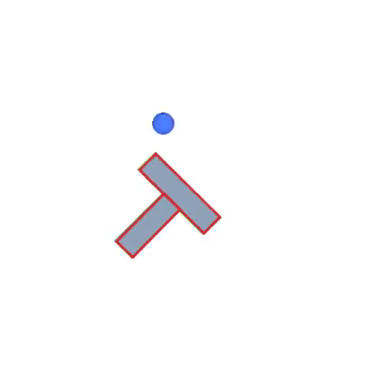
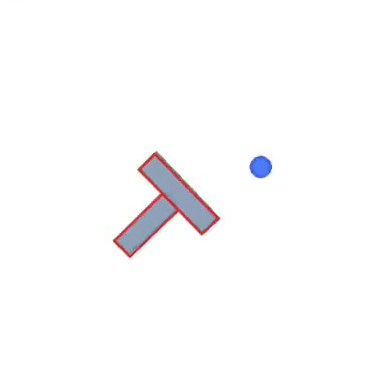
docs(presentation): merge the copying slide and re-record the T clip
Why:
The lead asked to keep "World model" on the overview slide, to remove
"Final test by shape group", to fold "Copying the teacher was not
enough" into "Why correction rounds work", and to replace the backup T
clip, which started almost solved, with a real push.

Note: some slides' step-by-step animations are still gone in the Beamer
deck; they will be restored later, content first.

Changes:
- "Approach at a glance": the box reads "World model" again.
- "Final test by shape group" removed (the deck has 42 numbered slides).
- "Why correction rounds work": a three-row strip above the DAgger
  diagram (teacher 76%, copy reading the exact state 31%, camera copy
  19%, 5 shapes) with "keeps at most 41% of the teacher's successes";
  the separate copying slide is gone.
- Backup clip: T from teacher seed 400120, window at control 39, which
  starts at 58% coverage and moves the letter 21 px; predicted within
  1.1 px after 8 and 1.8 px after 32 controls, 2.3 px at worst.
  make_videos.py worldmodel takes --record, --scene and --min-move.
- PowerPoint regions: the DAgger diagram area moved below the strip.

Validation:
- Deck compiles (57 pages); changed slides checked.
- PowerPoint: 57 slides, every word matches its Beamer page.

diff --git a/presentation/scripts/make_videos.py b/presentation/scripts/make_videos.py
@@ -218,13 +218,15 @@ def teacher(shapes):
     pickle.dump(lanes, open(CACHE / f"teacher_{SEEDS[0]}.pkl", "wb"))
 
 
-def worldmodel(shapes=("T", "D", "K", "R", "E", "A"), horizon=32, windows=3, scan=None, max_err=None):
+def worldmodel(shapes=("T", "D", "K", "R", "E", "A"), horizon=32, windows=3, scan=None, max_err=None, min_move=None,
+               record=None, scene=0):
     """What the world model imagines vs what really happens: replay a recorded teacher episode in the simulator and, at
     moments when the pusher is about to touch the block, roll the model forward open-loop over the next `horizon`
     controls with the actions that were really executed. The predicted block outline (red, dashed) is drawn over the
     real block; the caption gives the centre-of-mass error. Needs the world model (runs/wm2/v3) and teacher records.
     With max_err, up to `scan` contact windows are checked and only the first `windows` whose error `horizon` controls
-    ahead is at most max_err px are drawn (used for the backup slide's accurate T example)."""
+    ahead is at most max_err px (and, with min_move, whose letter really moves at least min_move px) are drawn. record
+    and scene pick another teacher record and scene (used for the backup slide's T example)."""
     import math
     from collections import defaultdict
     os.environ["TDYSSEY_SHAPES"] = LETTERS27
@@ -243,11 +245,11 @@ def worldmodel(shapes=("T", "D", "K", "R", "E", "A"), horizon=32, windows=3, sca
     V.mkdir(parents=True, exist_ok=True); I.mkdir(parents=True, exist_ok=True)
     summary = []
     for s in shapes:
-        z = np.load(WORK / "slides_data" / "teacher" / f"{s}.npz")
-        n = int(z["mask"][0].sum())
+        z = np.load(record or WORK / "slides_data" / "teacher" / f"{s}.npz")
+        n = int(z["mask"][scene].sum())
         k_sh = wm2.SHAPES.index(s)
         sh = torch.tensor([k_sh], device=dev)
-        st, pv, act, con = z["state"][0], z["pusher_velocity"][0], z["action"][0], z["contacts"][0]
+        st, pv, act, con = z["state"][scene], z["pusher_velocity"][scene], z["action"][scene], z["contacts"][scene]
         starts, t0 = [], 0                                     # window starts: a few controls before contact begins
         while t0 < n - horizon - 1 and len(starts) < (scan or windows):
             if con[t0 + 1:t0 + 9].max() > 0 and con[max(0, t0 - 4):t0 + 1].max() == 0:
@@ -263,14 +265,17 @@ def worldmodel(shapes=("T", "D", "K", "R", "E", "A"), horizon=32, windows=3, sca
                                           dtype=torch.float32), sh, hard=True)[0, -1].cpu().numpy()
                 r_end = wm2.to_cog(torch.tensor([[*st[t0 + horizon, :6], 0, 0, 0, 0]], device=dev, dtype=torch.float32), sh,
                                    geo.cogs)[0].cpu().numpy()
-                if math.hypot(p_end[0] - r_end[0], p_end[1] - r_end[1]) <= max_err:
+                r_0 = wm2.to_cog(torch.tensor([[*st[t0, :6], 0, 0, 0, 0]], device=dev, dtype=torch.float32), sh,
+                                 geo.cogs)[0].cpu().numpy()
+                moved = math.hypot(r_end[0] - r_0[0], r_end[1] - r_0[1])
+                if math.hypot(p_end[0] - r_end[0], p_end[1] - r_end[1]) <= max_err and moved >= (min_move or 0):
                     kept.append(t0)
             starts = kept[:windows]
         partner = "L" if s == "T" else s
         frames_out, stills_out = [], []
         for t0 in starts:
             envs = {"T": cls(shape="T", legacy=True), partner: cls(shape=partner, legacy=True)}
-            matched_reset(envs, int(z["seed"][0]), defaultdict(int))
+            matched_reset(envs, int(z["seed"][scene]), defaultdict(int))
             env = envs[s]
             for k in range(t0):
                 env.step(act[k])
@@ -1077,9 +1082,10 @@ if __name__ == "__main__":
         teacher(sys.argv[2:] or TRAINED27)
     elif sys.argv[1] == "stills":
         stills()
-    elif sys.argv[1] == "worldmodel":                     # worldmodel [shapes...] [--windows N --scan N --max-error PX]
+    elif sys.argv[1] == "worldmodel":   # worldmodel [shapes] [--windows N --scan N --max-error PX --min-move PX --record F --scene K]
         args, opts = [a for a in sys.argv[2:] if not a.startswith("--")], {}
-        for flag, key, cast in (("--windows", "windows", int), ("--scan", "scan", int), ("--max-error", "max_err", float)):
+        for flag, key, cast in (("--windows", "windows", int), ("--scan", "scan", int), ("--max-error", "max_err", float),
+                                ("--min-move", "min_move", float), ("--record", "record", Path), ("--scene", "scene", int)):
             if flag in sys.argv:
                 v = sys.argv[sys.argv.index(flag) + 1]; opts[key] = cast(v); args.remove(v)
         worldmodel(tuple(args) or ("T", "D", "K", "R", "E", "A"), **opts)
